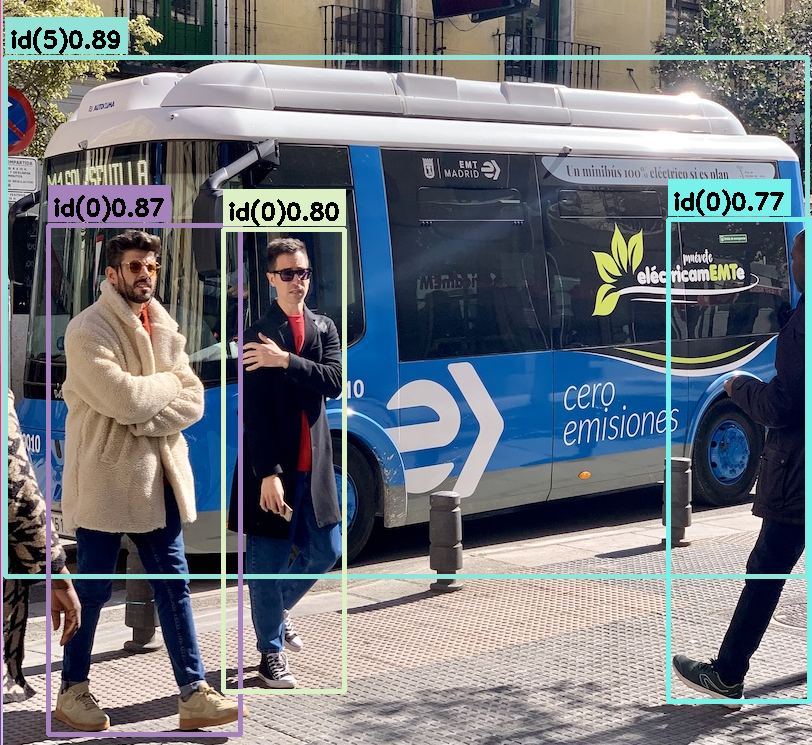
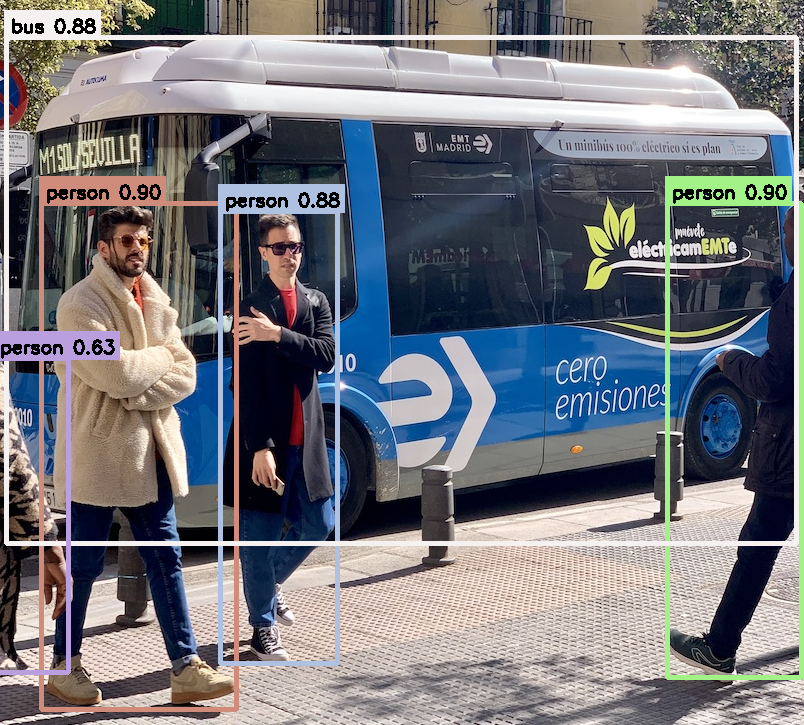
docs: update README.md
- add gif
- new result img

diff --git a/src/main_detect.cc b/src/main_detect.cc
@@ -30,7 +30,7 @@ int main(int argc, char **argv) {
 	std::vector<yolo::Detection> detections = inference.RunInference(image);
 
 	DrawDetectedObject(image, detections, class_names);
-	imshow("image", image);
+	cv::imshow("image", image);
 
 	const char escape_key = 27;
 

diff --git a/README.md b/README.md
@@ -133,9 +133,11 @@ Yo can download the YOLOv10 model from here: [ONNX](https://github.com/rlggyp/YO
 # For real-time inference with a camera: 
 ./camera <model_path.xml> <camera_index>
 ```
-
-![result_bus](assets/result_bus.png)
-![result_zidane](assets/result_zidane.png)
+<p align="center"> 
+  <img alt="traffic_gif" src="assets/traffic.gif", width="80%">
+  <img alt="result_bus" src="assets/result_bus.png", width="80%">
+  <img alt="result_zidane" src="assets/result_zidane.png", width="80%">
+</p>
 
 ## References
 - [How to export the YOLOv10 model](https://github.com/THU-MIG/yolov10?tab=readme-ov-file#export)
